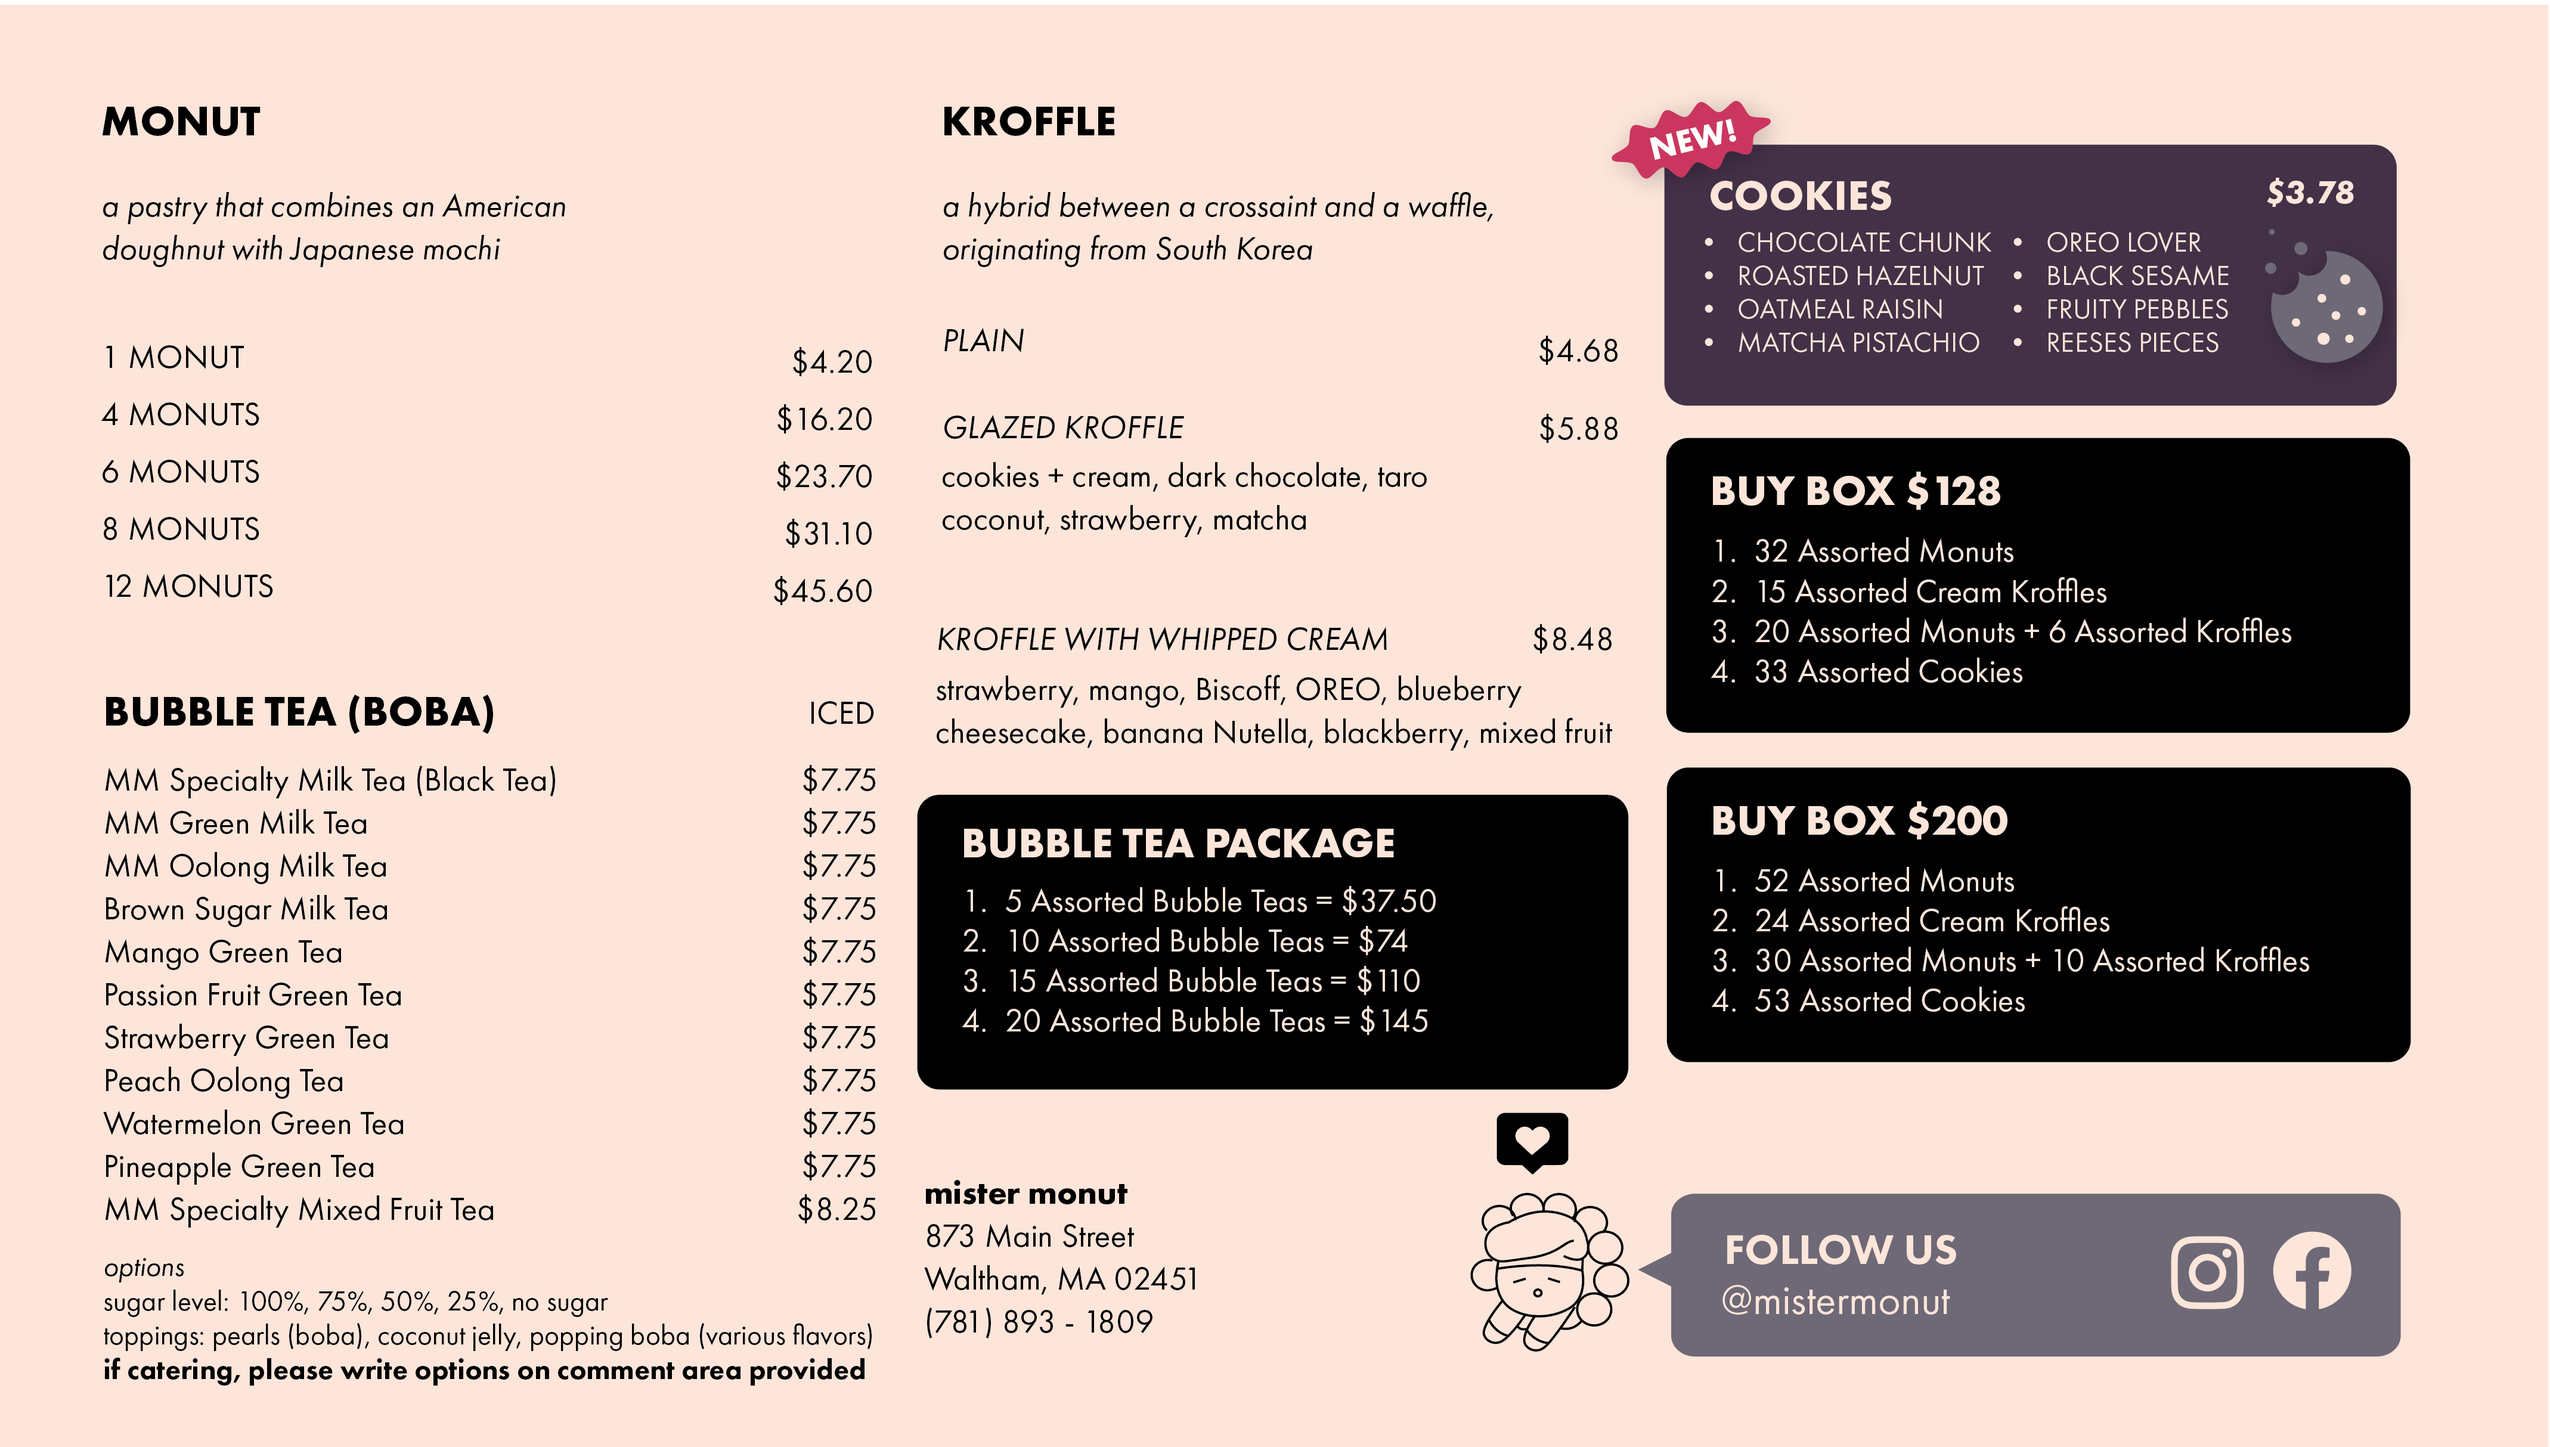
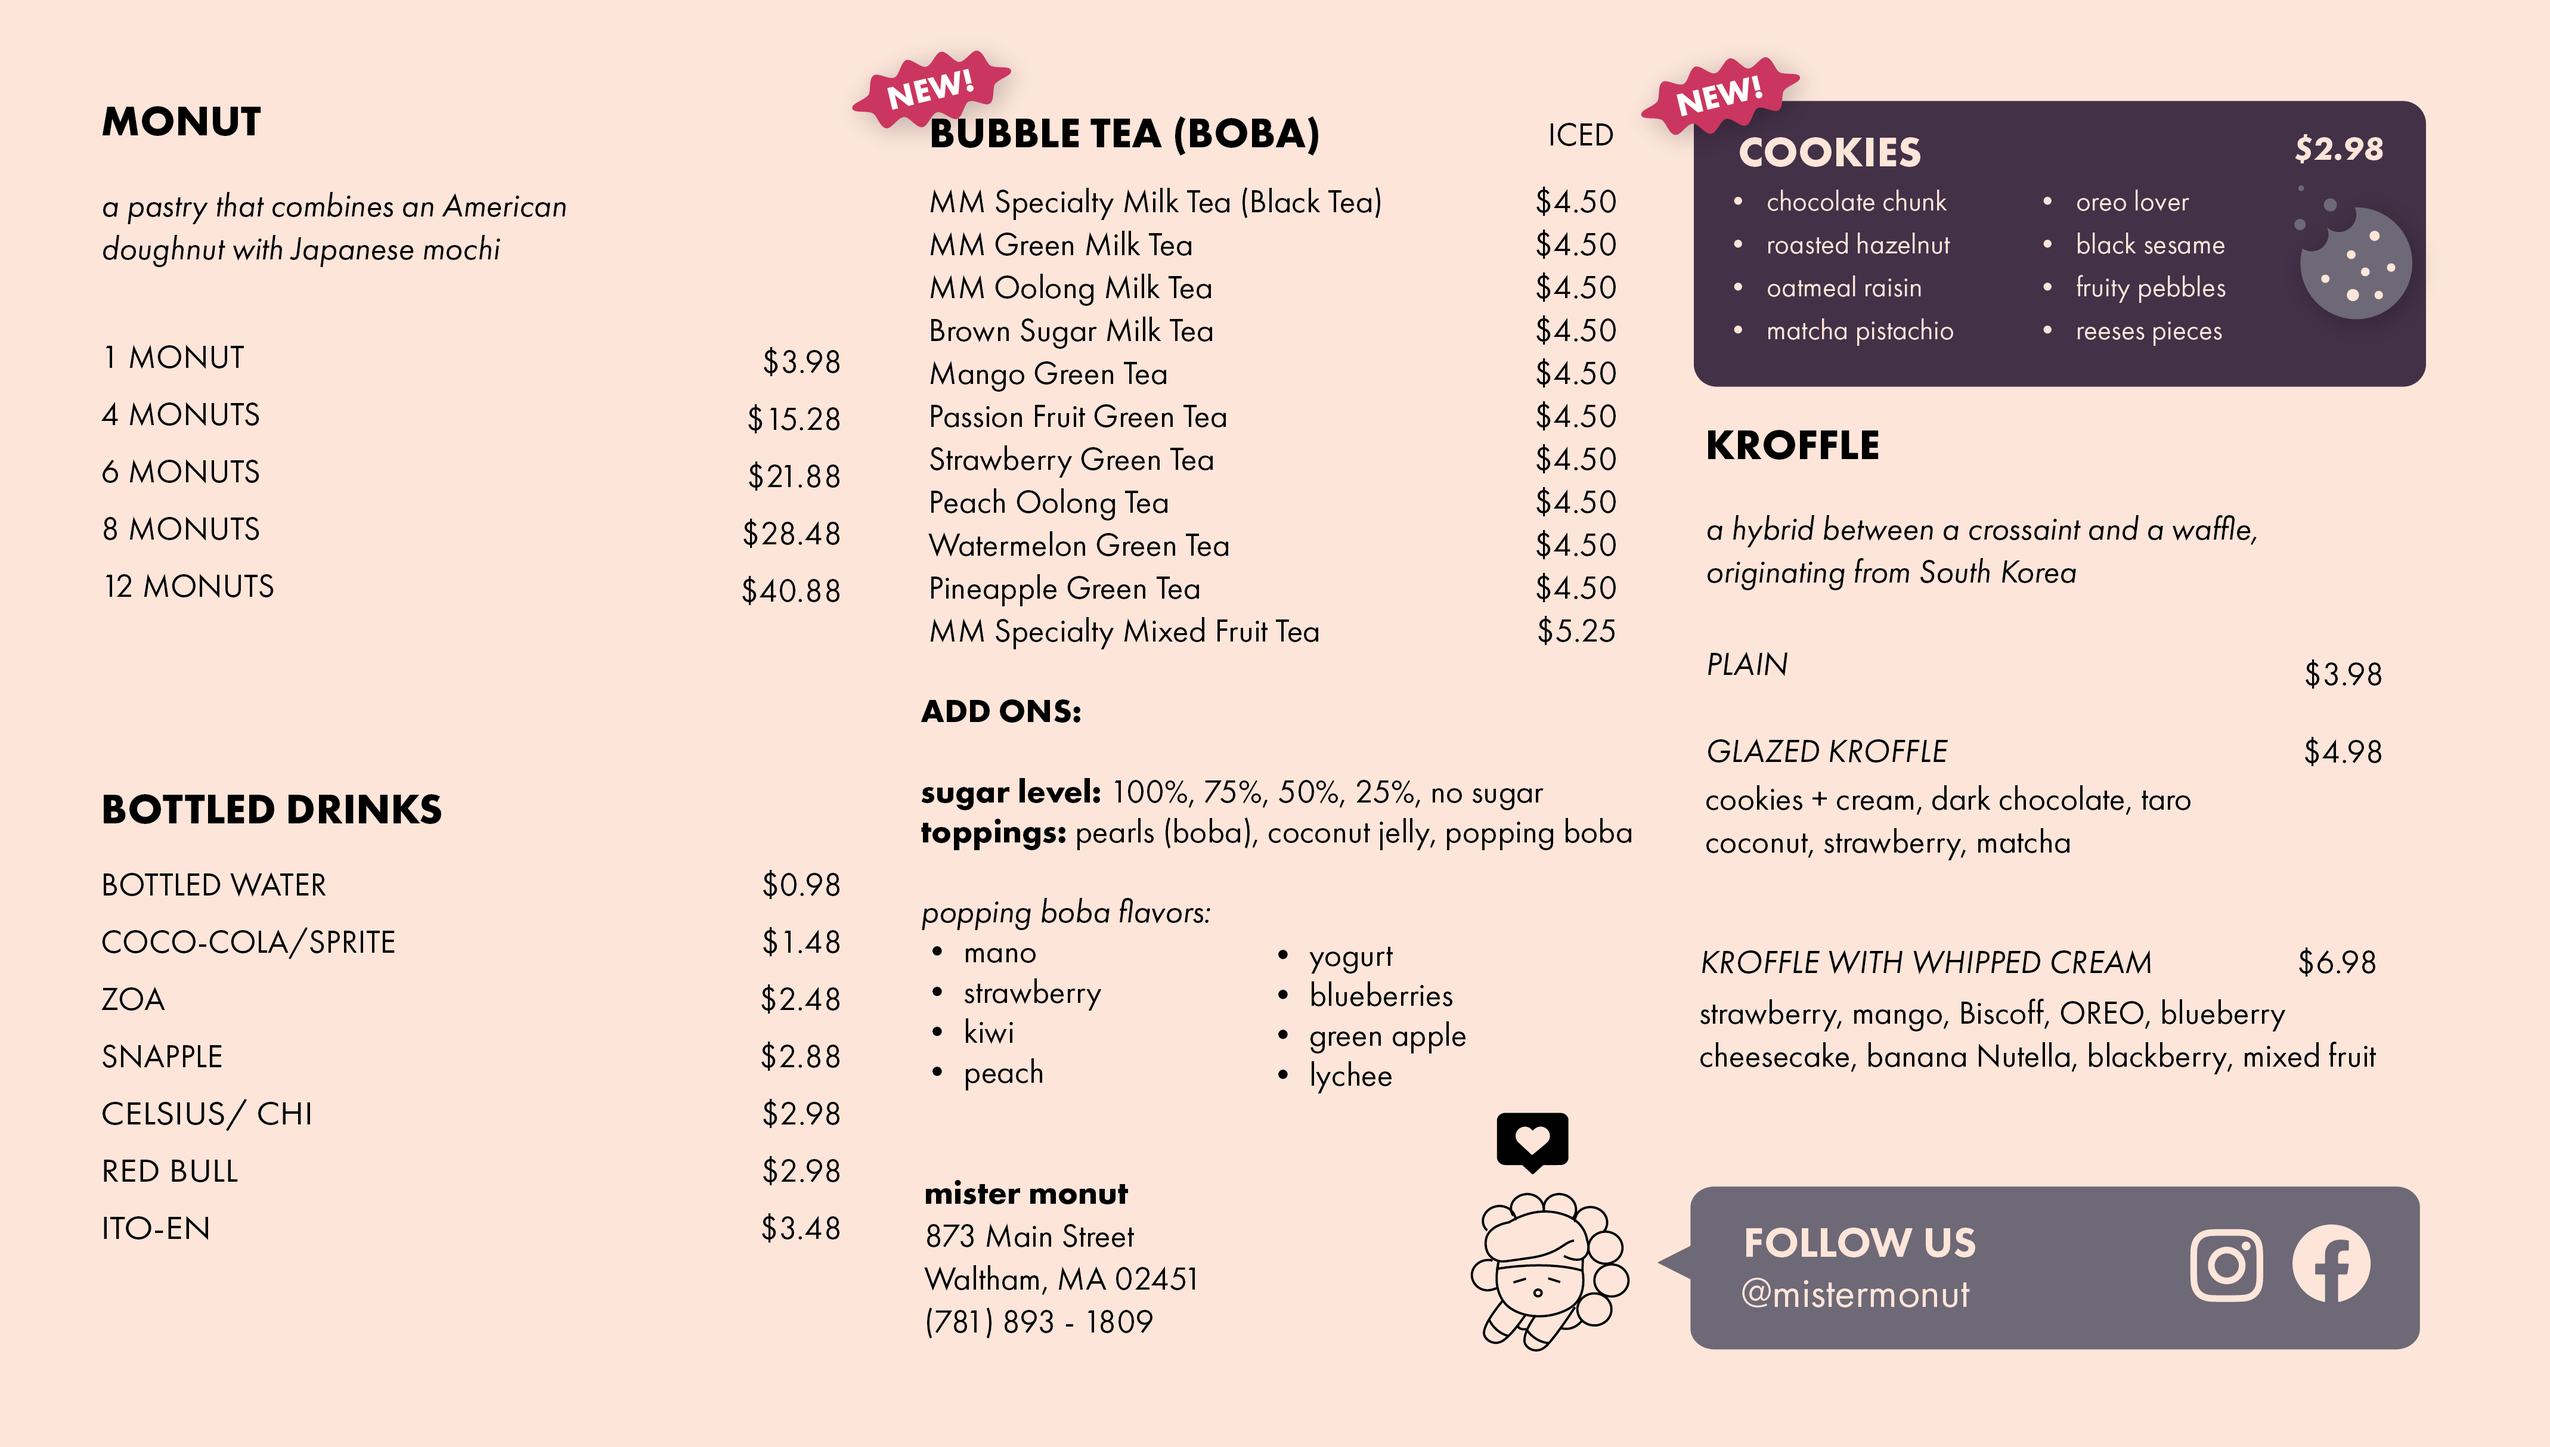
Revert menu and add cookies

diff --git a/src/sections/home/monut-flavors.vue b/src/sections/home/monut-flavors.vue
@@ -10,8 +10,8 @@
 
       <div class="monut-flavors__section centered-section">
         <div class="monut-flavors__title">
-          <h2>🍪 Mochi Cookies</h2>
-            <h3> in collaboration with <img style="height: 30px;" src="/images/chewco.svg"/></h3>
+          <h2>🍪 Cookies</h2>
+            <!-- <h3> in collaboration with <img style="height: 30px;" src="/images/chewco.svg"/></h3> -->
         </div>
       </div>
 
@@ -76,7 +76,7 @@
 </template>
 
 <script>
-import { Client, Environment } from "square";
+// import { Client, Environment } from "square";
 
 import {
   monutCard,
@@ -95,16 +95,12 @@ export default {
           file: 'plain'
         },
         {
-          name: 'Almond Delight',
-          file: 'almond'
+          name: 'Roasted Hazelnut',
+          file: 'hazelnut'
         },
         {
           name: 'Chocolate Chunk',
           file: 'chocolate'
-        },
-        {
-          name: 'Coconut Paradise',
-          file: 'coconut'
         },
         {
           name: 'Matcha Pistachio',
@@ -115,9 +111,9 @@ export default {
           file: 'oatmeal'
         },
         {
-          name: 'Strawberry Shortcake',
-          file: 'strawberry'
-        },
+          name: 'Oreo Lover',
+          file: 'oreo'
+        }
       ],
       kroffles: [
         {
